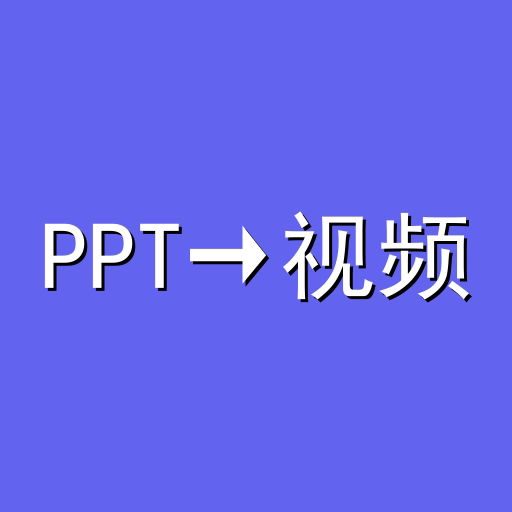
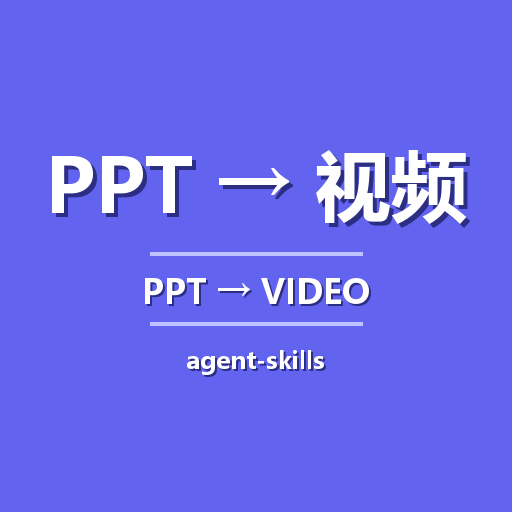
feat: bilingual demo assets, plus two more subtitle defects found while making them
The demo GIFs and the icon are now bilingual — every text element appears in
Chinese and English — so the same assets read for both audiences. The slides
are regenerated with a bilingual layout (content kept above the subtitle band),
the subtitle track shows the Chinese line with its English translation beneath
it in both modes, and the comparison GIF's panel labels are bilingual.

Making them surfaced two more defects, both of them silent failures:

1. Rolling subtitles scrolled only the first sentence of each page
   (pitfall 10, re-exposed by the earlier boundary-cache key fix)
   gen_film_ass.py built its rolling text from ev[0][0] — the first
   sentence-boundary entry — instead of the page's full script. Before the key
   fix the lookup always failed and the vo3/NN.txt fallback happened to supply
   the whole page, which hid the bug; once the lookup started succeeding, pages
   1 and 2 scrolled 22 and 7 characters instead of 74 and 54. Fix: the page text
   file is the source of truth and the joined sentence boundaries are only the
   fallback — the order gen_sentence_ass.py already used.

2. A UTF-8 BOM in the narration files leaked into the audio and the subtitles
   Both scripts read vo3/NN.txt with plain utf-8, and str.strip() does not
   remove U+FEFF, so an invisible character became the first character of every
   subtitle built from a page file. Notepad saves that BOM by default. Fix: read
   narration files with utf-8-sig.
[…]

diff --git a/skills/ppt-to-explainer-video-ffmpeg/scripts/gen_film_ass.py b/skills/ppt-to-explainer-video-ffmpeg/scripts/gen_film_ass.py
@@ -143,8 +143,20 @@ def main():
         # Looking up str(i) only would silently miss them -> the first 9 pages lose their subtitles; in static mode the whole film gets 0 events.
         ev = bounds.get(str(i)) or bounds.get("%02d" % i) or bounds.get(i) or []
         if a.mode == "scroll":
-            txt = ev[0][0] if ev else open(os.path.join(job, a.txt_dir, "%02d.txt" % i),
-                                          encoding="utf-8").read().strip()
+            # A rolling subtitle must carry the WHOLE page's text. Taking
+            # ev[0][0] leaves only the first sentence rolling (pitfall 10), and
+            # because the bounds lookup above can now succeed, that bug is live
+            # again — the page text file is the source of truth, with the joined
+            # sentence boundaries only as a fallback.
+            txt = ""
+            page_txt = os.path.join(job, a.txt_dir, "%02d.txt" % i)
+            if os.path.exists(page_txt):
+                # utf-8-sig: editors on Windows (Notepad included) write a BOM by
+                # default, and a plain utf-8 read leaves it in the string, so an
+                # invisible U+FEFF ends up as the first character of the subtitle.
+                txt = open(page_txt, encoding="utf-8-sig").read().strip()
+            if not txt and ev:
+                txt = "".join(x[0] for x in ev)
             # Text width is measured for real with PIL; the end point is -W*1.06 so the whole sentence scrolls past the left edge
             try:
                 from PIL import ImageFont

diff --git a/skills/ppt-to-explainer-video-ffmpeg/scripts/gen_sentence_ass.py b/skills/ppt-to-explainer-video-ffmpeg/scripts/gen_sentence_ass.py
@@ -157,7 +157,9 @@ def main():
     n_syn = 0
     for f in pages:
         tag = f[:-4]
-        txt = open(os.path.join(ind, f), encoding="utf-8").read().strip()
+        # utf-8-sig: a BOM written by a Windows editor would otherwise become an
+        # invisible first character of the narration, in both the audio and the subtitle
+        txt = open(os.path.join(ind, f), encoding="utf-8-sig").read().strip()
         mp3p = os.path.join(outd, tag + ".mp3")
         if os.path.exists(mp3p) and not a.force:
             continue
@@ -182,7 +184,7 @@ def main():
         if a.mode == "scroll":
             # Scrolling subtitles must scroll the whole page's script together (that is how the old version produced films);
             # taking only ev[0][0] scrolls just the first sentence — measured the hard way.
-            body = open(os.path.join(ind, tag + ".txt"), encoding="utf-8").read().strip()
+            body = open(os.path.join(ind, tag + ".txt"), encoding="utf-8-sig").read().strip()
             if not body and ev:
                 body = "".join(x[0] for x in ev)
             mv = "{\\an7\\q2\\move(%d,%d,-%d,%d,0,9000)}" % (

diff --git a/CHANGELOG.md b/CHANGELOG.md
@@ -5,8 +5,8 @@ The format follows [Keep a Changelog](https://keepachangelog.com/en/1.1.0/), and
 
 ## [Unreleased] — found and fixed during end-to-end validation ahead of the repository's first release
 
-> The 9 items below are the problems that surfaced when the skill was **actually run end to end** (the 3-page sample: narration → segment rendering → concat → burned-in subtitles → SRT), and they are already fixed in this repository.
-> They have not yet been ported back to the marketplace version (which is still 1.1.0); after porting, cut 1.1.1. **The first 6 of them all fail silently, so they must be ported back.**
+> The 11 items below are the problems that surfaced when the skill was **actually run end to end** (the 3-page sample: narration → segment rendering → concat → burned-in subtitles → SRT), and they are already fixed in this repository.
+> They have not yet been ported back to the marketplace version (which is still 1.1.0); after porting, cut 1.1.1. **8 of them fail silently, so they must be ported back.**
 
 ### Changed
 
@@ -25,6 +25,8 @@ The format follows [Keep a Changelog](https://keepachangelog.com/en/1.1.0/), and
 - **`--w`/`--h` had no effect when passed (portrait support was effectively useless)**: the header hard-coded `PlayResX/PlayResY` at 1920×1080, so `--w 1080 --h 1920` did not change the output. Fix: the header now reads `--w`/`--h` (measured portrait output gives `PlayResX: 1080` / `PlayResY: 1920`).
 - **`esc()` did not handle line breaks (pitfall 1 recurring)**: multi-line copy spliced raw newlines into the `Dialogue` line, leaving the second line without a `Dialogue:` prefix → libass parsing fails and **the whole subtitle disappears without any error**. This entry was already in the pitfall list, but neither script's `esc()` implemented it. Fix: escape line by line first, then join with a literal `\N`.
 - **`--bounds` robustness**: JSON with a BOM threw a bare stack trace (only `FileNotFoundError` was caught), and so did corrupted JSON. Fix: read with `utf-8-sig` and give a human-readable error when the file is corrupted.
+- **Rolling subtitles scrolled only the first sentence of each page** (pitfall 10, re-exposed by the key-lookup fix above). `gen_film_ass.py` built its rolling text from `ev[0][0]` — the first sentence-boundary entry — instead of the page's full script. Before the key fix the lookup always failed and the `vo3/NN.txt` fallback happened to supply the whole page, which is why the bug stayed hidden; once the lookup started succeeding, pages 1 and 2 scrolled 22 and 7 characters instead of 74 and 54. Fix: the page text file is now the source of truth, and the joined sentence boundaries are only the fallback — the same order `gen_sentence_ass.py` already used.
+- **A UTF-8 BOM in `vo3/NN.txt` leaked into the narration and the subtitles**: both scripts read those files with plain `utf-8`, and `str.strip()` does not remove U+FEFF, so an invisible character became the first character of every subtitle built from a page file. Notepad and several Windows editors write that BOM by default. Fix: read narration files with `utf-8-sig`.
 
 ### Documentation
 

diff --git a/README.md b/README.md
@@ -17,7 +17,7 @@
 
 ![Demo: a page-by-page explainer video with a right-to-left rolling subtitle](assets/demo.gif)
 
-> ↑ A 3-page sample generated by this skill itself (8 seconds, real speed): slide image + AI narration + rolling marquee subtitle.
+> ↑ A 3-page sample generated by this skill itself (6 seconds, real speed): slide image + AI narration + rolling marquee subtitle. The slides and the subtitles are **bilingual (Chinese / English)** so the demo reads for both audiences.
 
 ## What this is
 
@@ -84,7 +84,7 @@ Full-film regression: size went from **119.5 MB to 47.9 MB** (40% of the old out
 
 ![Two subtitle forms side by side: rolling marquee on the left, static per-sentence on the right](assets/subtitle-modes.gif)
 
-> ↑ Same page, same narration — only the subtitle form changes (left: rolling marquee; right: static per sentence). Switch with one flag on `gen_film_ass.py --mode`, and **switching does not re-record the voice-over or re-render the segments**.
+> ↑ Same page, same narration, bilingual subtitles — only the subtitle form changes (left: rolling marquee; right: static per sentence). Switch with one flag on `gen_film_ass.py --mode`, and **switching does not re-record the voice-over or re-render the segments**.
 
 ⚠ `\q1` **does not** mean "no wrapping" — for Chinese text without spaces, libass still wraps to the screen width. Rolling subtitles need `\q2` **and** header `WrapStyle: 2` as a belt-and-braces pair.
 
